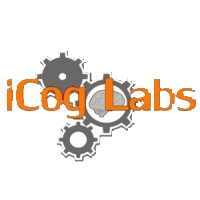
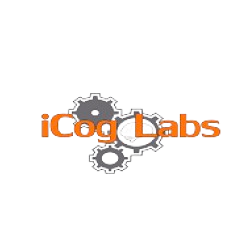
footer added and partners color corrected

Changed region(s): [[0.03, 0.24, 0.99, 0.81]]

diff --git a/src/app/landing/components/Footer.jsx b/src/app/landing/components/Footer.jsx
@@ -1,0 +1,94 @@
+import React from 'react'
+
+const Footer = () => {
+  return (
+    
+
+<footer class="bg-[#095FAF1A] text-white">
+    <div class="mx-auto w-full max-w-screen-xl p-4 py-6 lg:py-8">
+        <div class="md:flex md:justify-between">
+          <div class="mb-6 md:mb-0">
+              <a class="flex items-center">
+                  <span class="self-center text-2xl font-semibold whitespace-nowrap dark:text-white">LEYU</span>
+              </a>
+          </div>
+          <div class="grid grid-cols-2 gap-8 sm:gap-6 sm:grid-cols-3">
+              <div>
+                  <h2 class="mb-6 text-sm font-semibold text-gray-200 uppercase">Resources</h2>
+                  <ul class="text-gray-200 font-medium">
+                      <li class="mb-4">
+                          <a class="hover:underline">Flowbite</a>
+                      </li>
+                      <li>
+                          <a class="hover:underline">Tailwind CSS</a>
+                      </li>
+                  </ul>
+              </div>
+              <div>
+                  <h2 class="mb-6 text-sm font-semibold text-gray-200 uppercase">Follow us</h2>
+                  <ul class="text-gray-300 font-medium">
+                      <li class="mb-4">
+                          <a class="hover:underline ">Github</a>
+                      </li>
+                      <li>
+                          <a class="hover:underline">Discord</a>
+                      </li>
+                  </ul>
+              </div>
+              <div>
+                  <h2 class="mb-6 text-sm font-semibold text-gray-200 uppercase ">Legal</h2>
+                  <ul class="text-gray-300  font-medium">
+                      <li class="mb-4">
+                          <a href="#" class="hover:underline">Privacy Policy</a>
+                      </li>
+                      <li>
+                          <a href="#" class="hover:underline">Terms &amp; Conditions</a>
+                      </li>
+                  </ul>
+              </div>
+          </div>
+      </div>
+      <hr class="my-6 border-gray-200 sm:mx-auto lg:my-8" />
+      <div class="sm:flex sm:items-center sm:justify-between">
+          <span class="text-sm text-gray-300 sm:text-center dark:text-gray-400">© 2023 <a href="https://flowbite.com/" class="hover:underline">Flowbite™</a>. All Rights Reserved.
+          </span>
+          <div class="flex mt-4 sm:justify-center sm:mt-0">
+              <a href="#" class="text-gray-300 hover:text-gray-200 dark:hover:text-white">
+                  <svg class="w-4 h-4" aria-hidden="true" xmlns="http://www.w3.org/2000/svg" fill="currentColor" viewBox="0 0 8 19">
+                        <path fill-rule="evenodd" d="M6.135 3H8V0H6.135a4.147 4.147 0 0 0-4.142 4.142V6H0v3h2v9.938h3V9h2.021l.592-3H5V3.591A.6.6 0 0 1 5.592 3h.543Z" clip-rule="evenodd"/>
+                    </svg>
+                  <span class="sr-only">Facebook page</span>
+              </a>
+              <a href="#" class="text-gray-300 hover:text-gray-200 dark:hover:text-white ms-5">
+                  <svg class="w-4 h-4" aria-hidden="true" xmlns="http://www.w3.org/2000/svg" fill="currentColor" viewBox="0 0 21 16">
+                        <path d="M16.942 1.556a16.3 16.3 0 0 0-4.126-1.3 12.04 12.04 0 0 0-.529 1.1 15.175 15.175 0 0 0-4.573 0 11.585 11.585 0 0 0-.535-1.1 16.274 16.274 0 0 0-4.129 1.3A17.392 17.392 0 0 0 .182 13.218a15.785 15.785 0 0 0 4.963 2.521c.41-.564.773-1.16 1.084-1.785a10.63 10.63 0 0 1-1.706-.83c.143-.106.283-.217.418-.33a11.664 11.664 0 0 0 10.118 0c.137.113.277.224.418.33-.544.328-1.116.606-1.71.832a12.52 12.52 0 0 0 1.084 1.785 16.46 16.46 0 0 0 5.064-2.595 17.286 17.286 0 0 0-2.973-11.59ZM6.678 10.813a1.941 1.941 0 0 1-1.8-2.045 1.93 1.93 0 0 1 1.8-2.047 1.919 1.919 0 0 1 1.8 2.047 1.93 1.93 0 0 1-1.8 2.045Zm6.644 0a1.94 1.94 0 0 1-1.8-2.045 1.93 1.93 0 0 1 1.8-2.047 1.918 1.918 0 0 1 1.8 2.047 1.93 1.93 0 0 1-1.8 2.045Z"/>
+                    </svg>
+                  <span class="sr-only">Discord community</span>
+              </a>
+              <a href="#" class="text-gray-300 hover:text-gray-200 dark:hover:text-white ms-5">
+                  <svg class="w-4 h-4" aria-hidden="true" xmlns="http://www.w3.org/2000/svg" fill="currentColor" viewBox="0 0 20 17">
+                    <path fill-rule="evenodd" d="M20 1.892a8.178 8.178 0 0 1-2.355.635 4.074 4.074 0 0 0 1.8-2.235 8.344 8.344 0 0 1-2.605.98A4.13 4.13 0 0 0 13.85 0a4.068 4.068 0 0 0-4.1 4.038 4 4 0 0 0 .105.919A11.705 11.705 0 0 1 1.4.734a4.006 4.006 0 0 0 1.268 5.392 4.165 4.165 0 0 1-1.859-.5v.05A4.057 4.057 0 0 0 4.1 9.635a4.19 4.19 0 0 1-1.856.07 4.108 4.108 0 0 0 3.831 2.807A8.36 8.36 0 0 1 0 14.184 11.732 11.732 0 0 0 6.291 16 11.502 11.502 0 0 0 17.964 4.5c0-.177 0-.35-.012-.523A8.143 8.143 0 0 0 20 1.892Z" clip-rule="evenodd"/>
+                </svg>
+                  <span class="sr-only">Twitter page</span>
+              </a>
+              <a href="#" class="text-gray-300 hover:text-gray-200 dark:hover:text-white ms-5">
+                  <svg class="w-4 h-4" aria-hidden="true" xmlns="http://www.w3.org/2000/svg" fill="currentColor" viewBox="0 0 20 20">
+                        <path fill-rule="evenodd" d="M10 .333A9.911 9.911 0 0 0 6.866 19.65c.5.092.678-.215.678-.477 0-.237-.01-1.017-.014-1.845-2.757.6-3.338-1.169-3.338-1.169a2.627 2.627 0 0 0-1.1-1.451c-.9-.615.07-.6.07-.6a2.084 2.084 0 0 1 1.518 1.021 2.11 2.11 0 0 0 2.884.823c.044-.503.268-.973.63-1.325-2.2-.25-4.516-1.1-4.516-4.9A3.832 3.832 0 0 1 4.7 7.068a3.56 3.56 0 0 1 .095-2.623s.832-.266 2.726 1.016a9.409 9.409 0 0 1 4.962 0c1.89-1.282 2.717-1.016 2.717-1.016.366.83.402 1.768.1 2.623a3.827 3.827 0 0 1 1.02 2.659c0 3.807-2.319 4.644-4.525 4.889a2.366 2.366 0 0 1 .673 1.834c0 1.326-.012 2.394-.012 2.72 0 .263.18.572.681.475A9.911 9.911 0 0 0 10 .333Z" clip-rule="evenodd"/>
+                  </svg>
+                  <span class="sr-only">GitHub account</span>
+              </a>
+              <a href="#" class="text-gray-300 hover:text-gray-200 dark:hover:text-white ms-5">
+                  <svg class="w-4 h-4" aria-hidden="true" xmlns="http://www.w3.org/2000/svg" fill="currentColor" viewBox="0 0 20 20">
+                    <path fill-rule="evenodd" d="M10 0a10 10 0 1 0 10 10A10.009 10.009 0 0 0 10 0Zm6.613 4.614a8.523 8.523 0 0 1 1.93 5.32 20.094 20.094 0 0 0-5.949-.274c-.059-.149-.122-.292-.184-.441a23.879 23.879 0 0 0-.566-1.239 11.41 11.41 0 0 0 4.769-3.366ZM8 1.707a8.821 8.821 0 0 1 2-.238 8.5 8.5 0 0 1 5.664 2.152 9.608 9.608 0 0 1-4.476 3.087A45.758 45.758 0 0 0 8 1.707ZM1.642 8.262a8.57 8.57 0 0 1 4.73-5.981A53.998 53.998 0 0 1 9.54 7.222a32.078 32.078 0 0 1-7.9 1.04h.002Zm2.01 7.46a8.51 8.51 0 0 1-2.2-5.707v-.262a31.64 31.64 0 0 0 8.777-1.219c.243.477.477.964.692 1.449-.114.032-.227.067-.336.1a13.569 13.569 0 0 0-6.942 5.636l.009.003ZM10 18.556a8.508 8.508 0 0 1-5.243-1.8 11.717 11.717 0 0 1 6.7-5.332.509.509 0 0 1 .055-.02 35.65 35.65 0 0 1 1.819 6.476 8.476 8.476 0 0 1-3.331.676Zm4.772-1.462A37.232 37.232 0 0 0 13.113 11a12.513 12.513 0 0 1 5.321.364 8.56 8.56 0 0 1-3.66 5.73h-.002Z" clip-rule="evenodd"/>
+                </svg>
+                  <span class="sr-only">Dribbble account</span>
+              </a>
+          </div>
+      </div>
+    </div>
+</footer>
+
+  )
+}
+
+export default Footer

diff --git a/src/app/landing/components/Teams.jsx b/src/app/landing/components/Teams.jsx
@@ -1,6 +1,6 @@
 import Image from 'next/image';
 import icogLabs from '../../../../public/icog-labs.png'
-import singularitynet from '../../../../public/singularitynet.png'
+import singularitynet from '../../../../public/singularitynet.svg'
 import icogacc from '../../../../public/icog-acc.png'
 
 
@@ -12,14 +12,14 @@ const DiamondContainer = () =>
 )
 const SquareContainer = (props) => 
 (
-  <div className='flex justify-center items-center' >
-       <Image src={props.image} alt='partner_image' width={200} height={200} className='object-contain'/>
+  <div className=' self-center shadow-card bg-flex justify-center items-center' >
+       <img src={props.image.src} alt='partner_image' width={250} height={250} className=''/>
   </div>
 )
 
 const Teams = () => {
   return (
-    <div className=''>
+    <div className='px-10'>
     {/* <div className='pt-20'>
         <h1 className='text-[30px] bg-gradient-to-tr from-slate-700 to-white bg-clip-text text-transparent'>A Team <span className='text-[40px] font-bold'>Passionate</span> about <span className='text-[40px] font-bold'>Inclusive AI</span></h1>
     <div className='flex flex-wrap justify-center items-center min-h-96 gap-20'>
@@ -38,12 +38,12 @@ const Teams = () => {
     </div> */}
     <div className=''>
     <div className='flex flex-wrap justify-center items-center min-h-96'>
-    <div className='w-full grid grid-cols-3 gap-20 mx-10'>
+    <div className='w-full grid grid-cols-3 place-items-center self-center gap-20'>
+      <div className='img-white'>
         <SquareContainer image = {icogacc}/>
-        <SquareContainer image = {icogLabs}/>
-        <div className='scale-75'>
-        <SquareContainer image = {singularitynet}/>
-        </div>
+      </div>
+        <SquareContainer image = {icogLabs} className = ""/>
+        <SquareContainer image = {singularitynet} />
     </div>
     </div>
     </div>

diff --git a/src/app/landing/components/WhatWeDo.jsx b/src/app/landing/components/WhatWeDo.jsx
@@ -1,11 +1,11 @@
 import Image from 'next/image'
-import image from "../../../../public/whatwedo.png"
+import image from "../../../../public/whatwedo.svg"
 const WhatWeDo = () => {
   return (
     <div className='flex justify-evenly items-center gap-10 flex-wrap py-40'>
         <h1 className='text-[70px] bg-gradient-to-tr to-slate-700 from-white bg-clip-text text-transparent font-bold'>What We Do?</h1>
-        <div>
-            <Image src={image} alt='what we do' className='transform xl:scale-125'/>
+        <div className=''>
+            <Image src={image} alt='what we do' className=''/>
         </div>
     </div>
   )

diff --git a/src/app/landing/page.js b/src/app/landing/page.js
@@ -15,6 +15,7 @@ import Values from "./components/Value";
 import Teams from "./components/Teams";
 import Approaches from "./components/Approach";
 import ThreeDSection from "./components/3DSection";
+import Footer from "./components/footer";
 
 const Page = () => {
   return (
@@ -30,6 +31,7 @@ const Page = () => {
       <WhatWeDo />
       <Values />
       <Teams />
+      <Footer />
     </div>
   );
 };

diff --git a/src/app/globals.css b/src/app/globals.css
@@ -35,3 +35,6 @@
   transform: rotate(45deg);
   box-shadow: 32px 32px 32px 0 rgba(45, 1, 149, 0.5);
 }
+.img-white {
+  filter: brightness(0) invert(1);
+}
